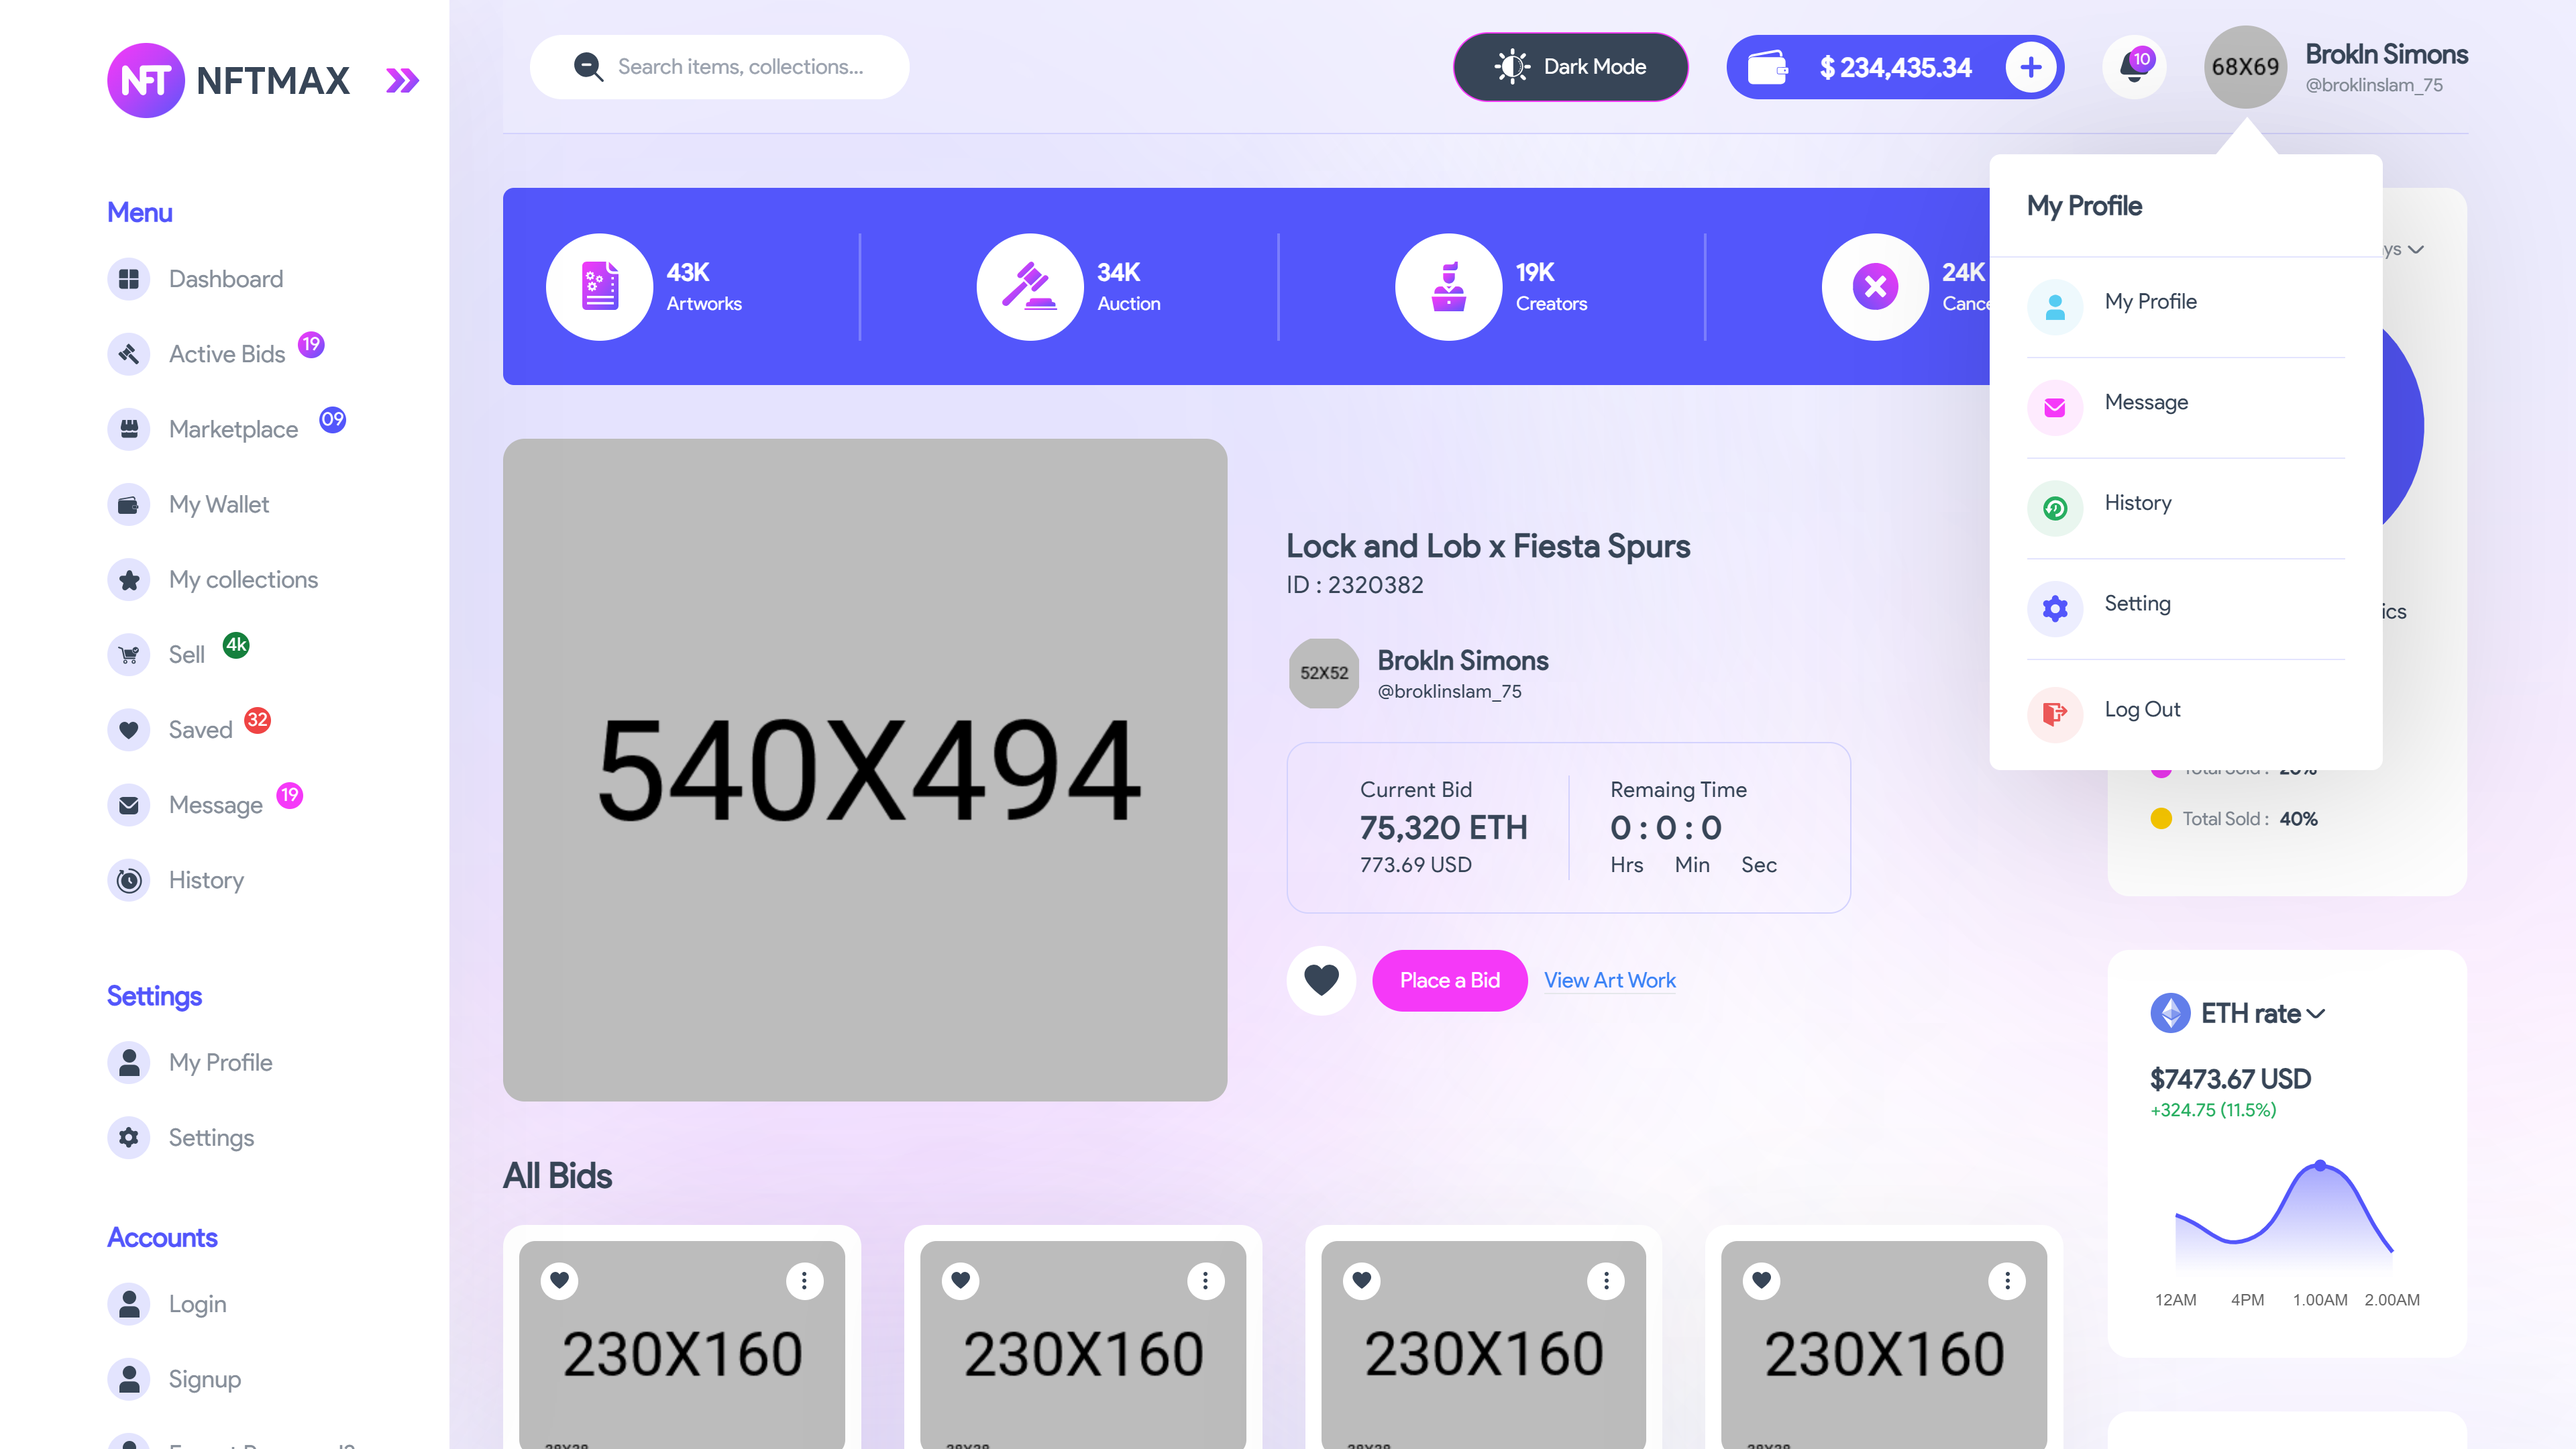
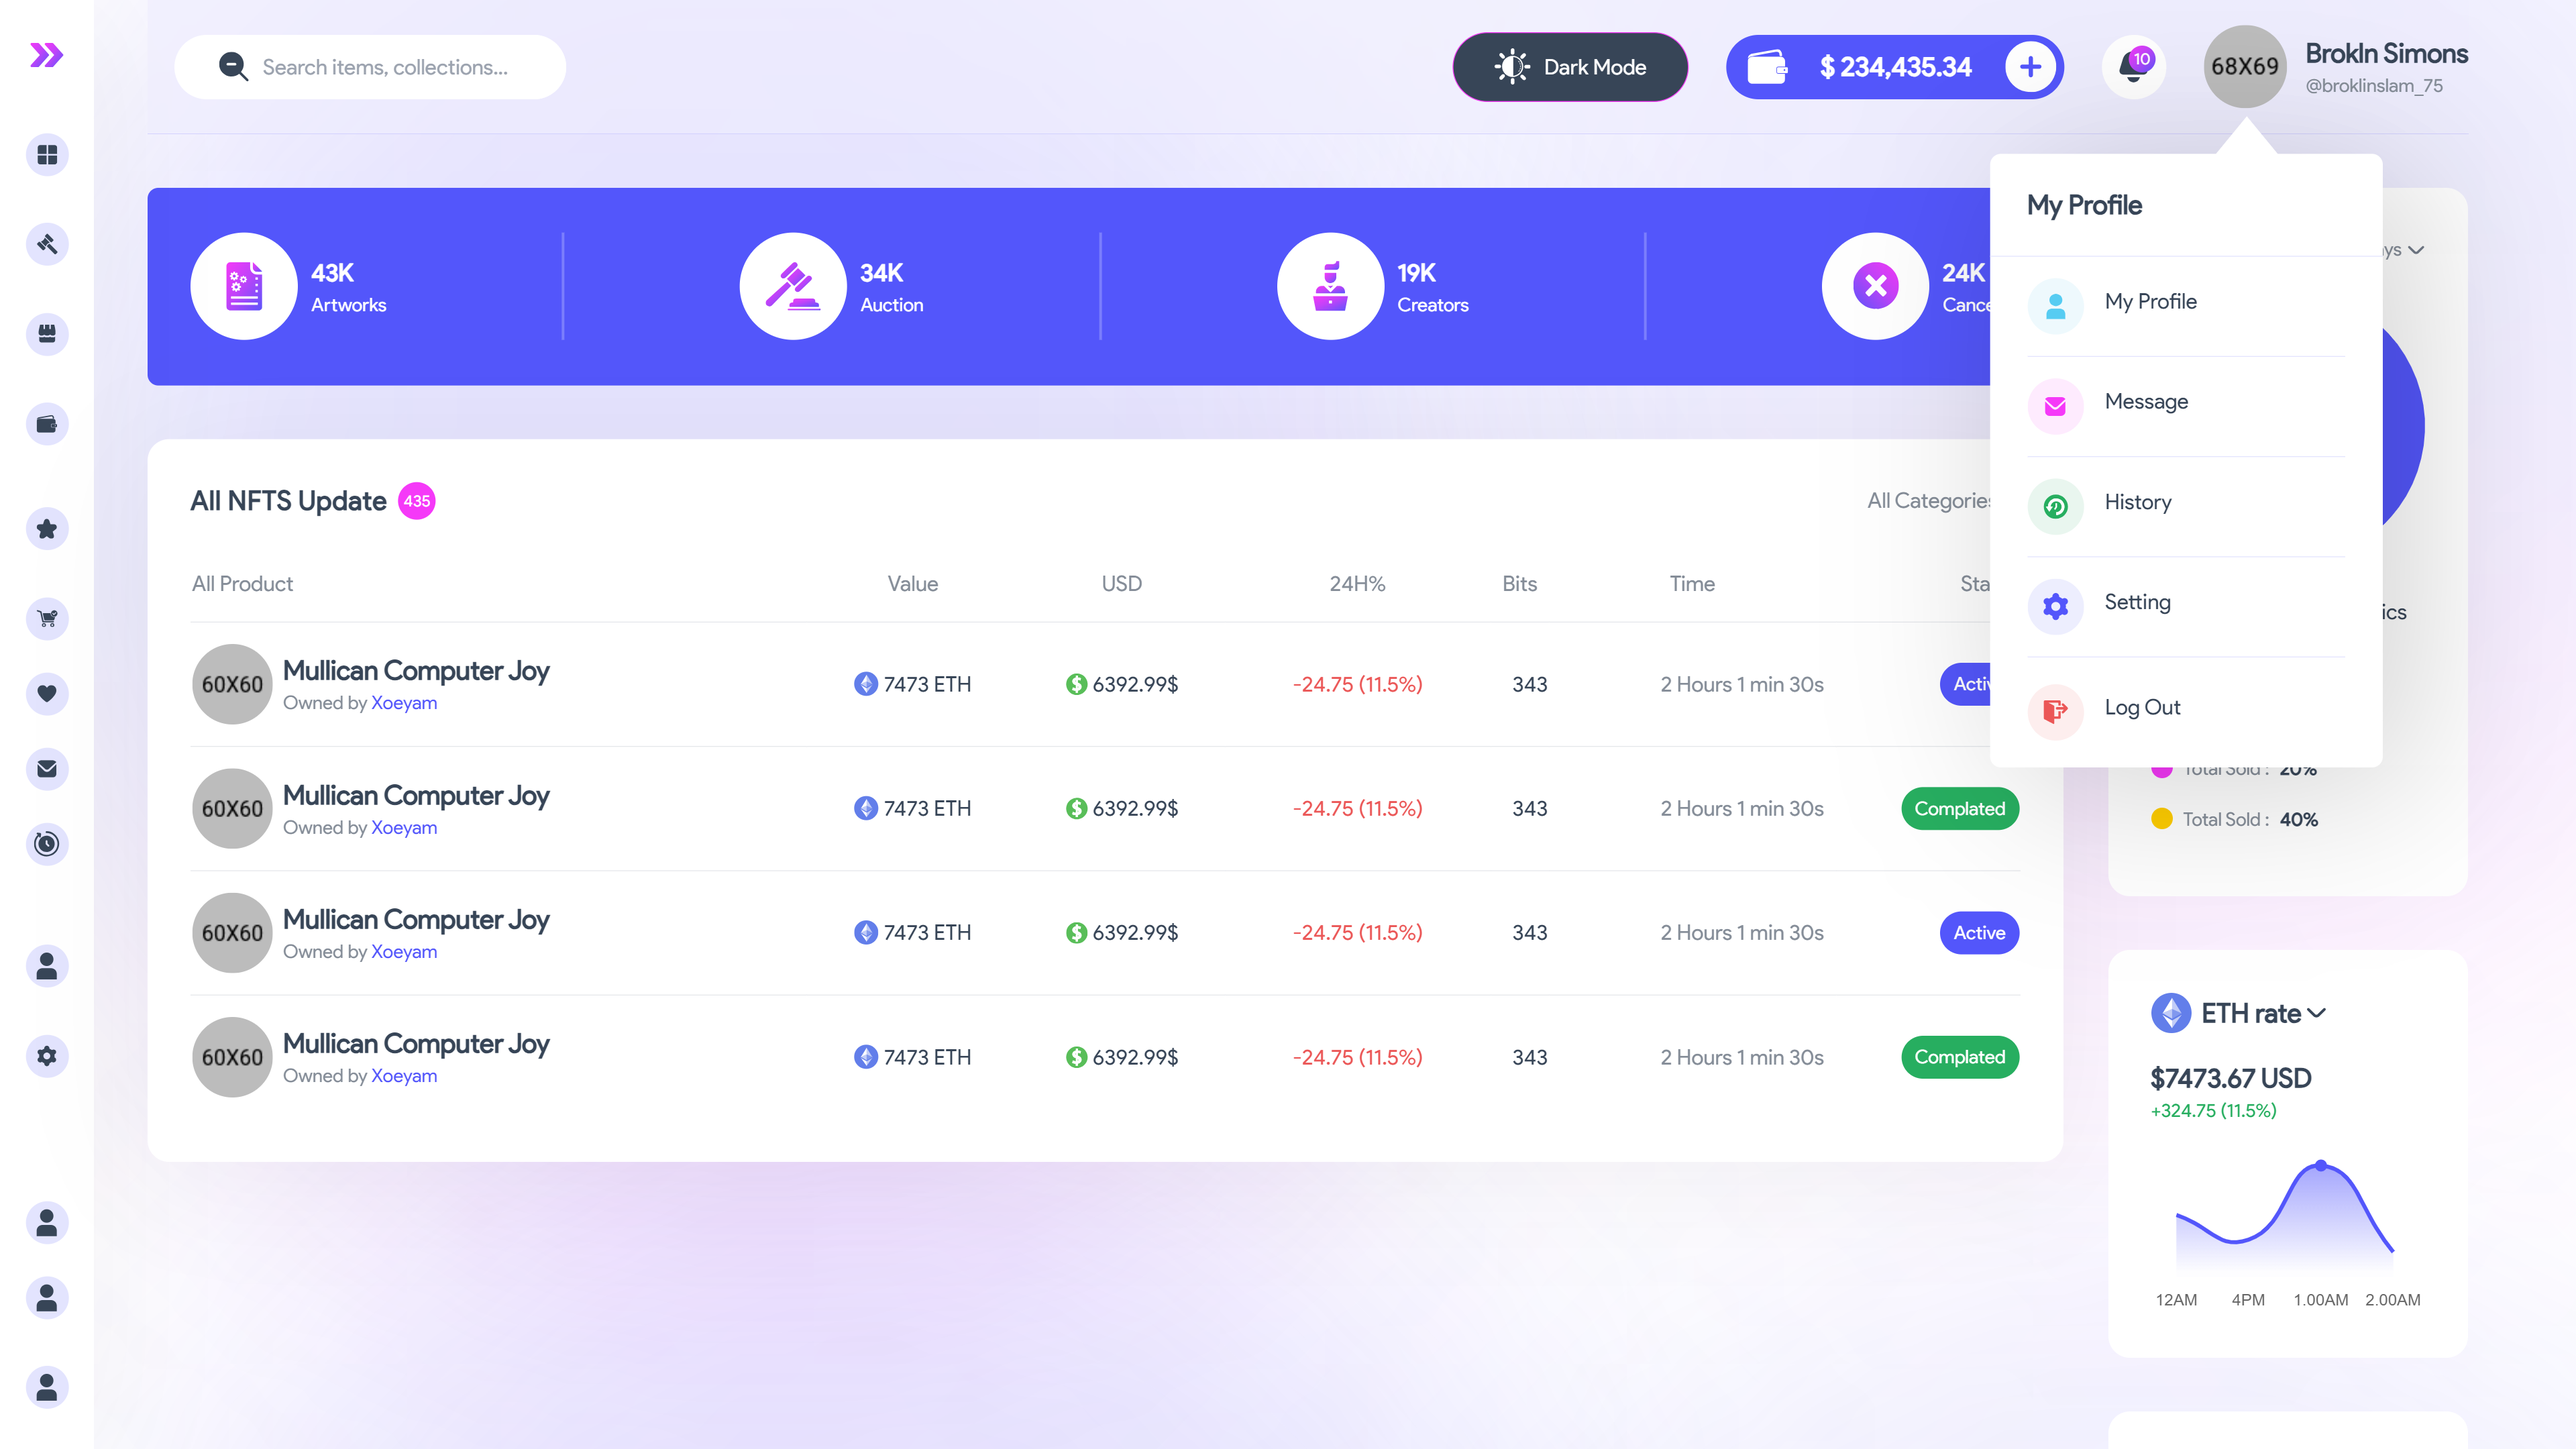
augdone

diff --git a/src/pages/ActiveBids/index.jsx b/src/pages/ActiveBids/index.jsx
@@ -1,18 +1,12 @@
 import React from "react";
-import datas from "../../mock_data/product_data.json";
 import UpdateTable from "./UpdateTable";
-import AllBidsSection from "./AllBidsSection";
 import CounterSection from "./CounterSection";
-import OverviewSection from "./OverviewSection";
 
 export default function ActiveBids() {
-  const allBids = datas.datas;
   return (
     <>
-        <CounterSection className="mb-10" />
-        <OverviewSection className="mb-10" />
-        <AllBidsSection allBids={allBids} className="mb-10" />
-        <UpdateTable className="mb-10" />
+      <CounterSection className="mb-10" />
+      <UpdateTable className="mb-10" />
     </>
   );
 }
